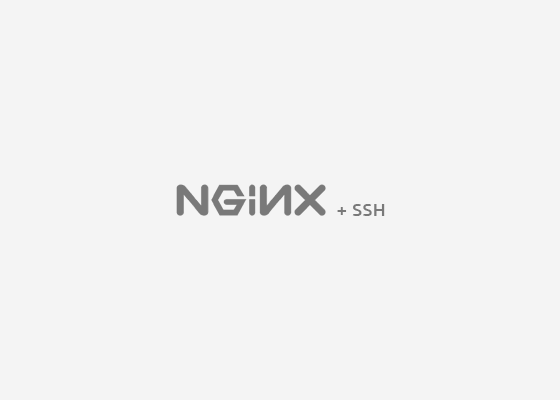
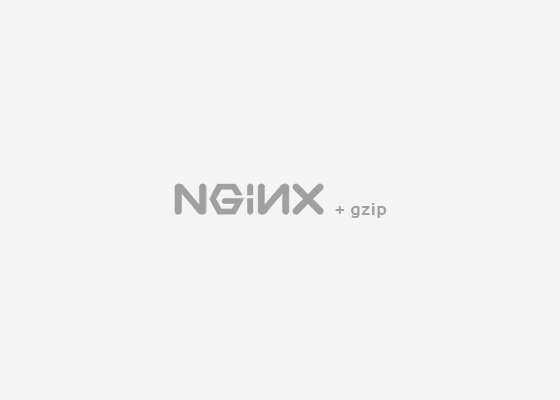
update post (nginx + gzip, ssh, vim editor)

Changed region(s): [[0.3036, 0.45, 0.6982, 0.54]]

diff --git a/index.html b/index.html
@@ -69,7 +69,19 @@
                 <div class="box">
                   <div class="pf-column">
                     <div class="thumb-img nginx-thumb"></div>
-                    <p>Nginx and SSH<br /><span class="pf-date">2017-04</span></p>
+                    <p>Nginx + Gzip Module<br /><span class="pf-date">2017-04</span></p>
+                    <a class="area-link" href="https://gist.github.com/falsy/758a0c04322b45508fed600911719eed" target="_blank"></a>
+                  </div>
+                  <div class="pf-column">
+                    <div class="thumb-img js-thumb"></div>
+                    <p>Javascript Data Type<br /><span class="pf-date">2017-02</span></p>
+                    <a class="area-link" href="https://gist.github.com/falsy/a58f470228925ae24ce5bd604fe82db3" target="_blank"></a>
+                  </div>
+                </div>
+                <div class="box">
+                  <div class="pf-column">
+                    <div class="thumb-img ssh-thumb"></div>
+                    <p>SSH, Vim editor<br /><span class="pf-date">2017-04</span></p>
                     <a class="area-link" href="https://gist.github.com/falsy/92f753e78f174d2fc67816ee99535ff2" target="_blank"></a>
                   </div>
                 </div>
@@ -79,13 +91,6 @@
                     <p>Javascript Create Object<br /><span class="pf-date">2017-03</span></p>
                     <span class="type">in progress</span>
                     <a class="area-link" href="https://gist.github.com/falsy/a2b2e0ebf7affbdcfc541d32c0119825" target="_blank"></a>
-                  </div>
-                </div>
-                <div class="box">
-                  <div class="pf-column">
-                    <div class="thumb-img js-thumb"></div>
-                    <p>Javascript Data Type<br /><span class="pf-date">2017-02</span></p>
-                    <a class="area-link" href="https://gist.github.com/falsy/a58f470228925ae24ce5bd604fe82db3" target="_blank"></a>
                   </div>
                 </div>
                 <div style="clear:both;"></div>

diff --git a/falsy.css b/falsy.css
@@ -131,6 +131,7 @@ footer .container {background: #f2f4f7; padding-top: 60px; padding-bottom: 100px
 .pf-column .thumb-img.js-thumb {background-image:url(./img/js.png);}
 
 
+.pf-column .thumb-img.ssh-thumb {background-image:url(./img/ssh.png);}
 .pf-column .thumb-img.nginx-thumb {background-image:url(./img/nginx.png);}
 .pf-column .thumb-img.webpack-thumb {background-image:url(./img/webpack.png);}
 .pf-column .thumb-img.mongo-thumb {background-image:url(./img/mongo.png);}
